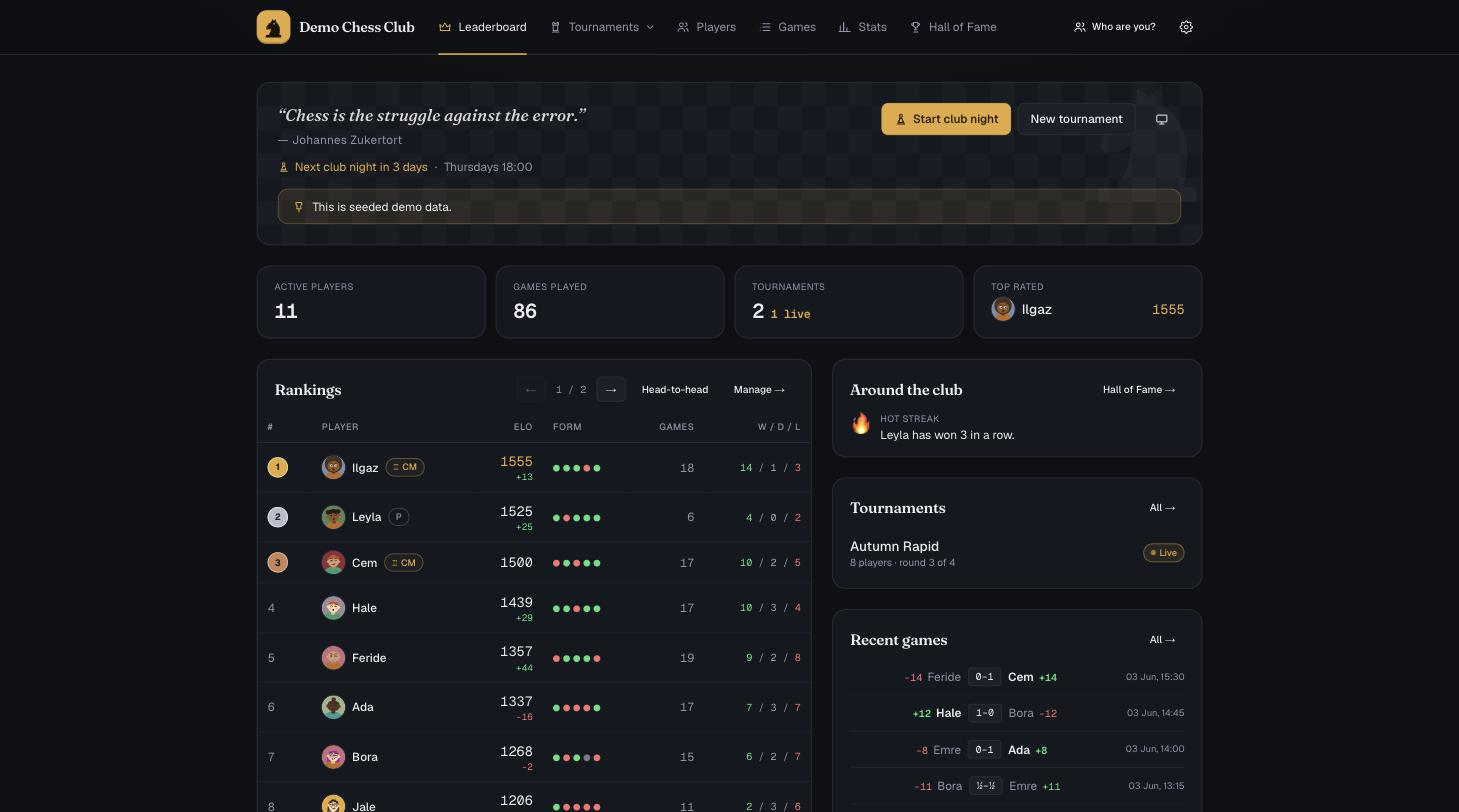
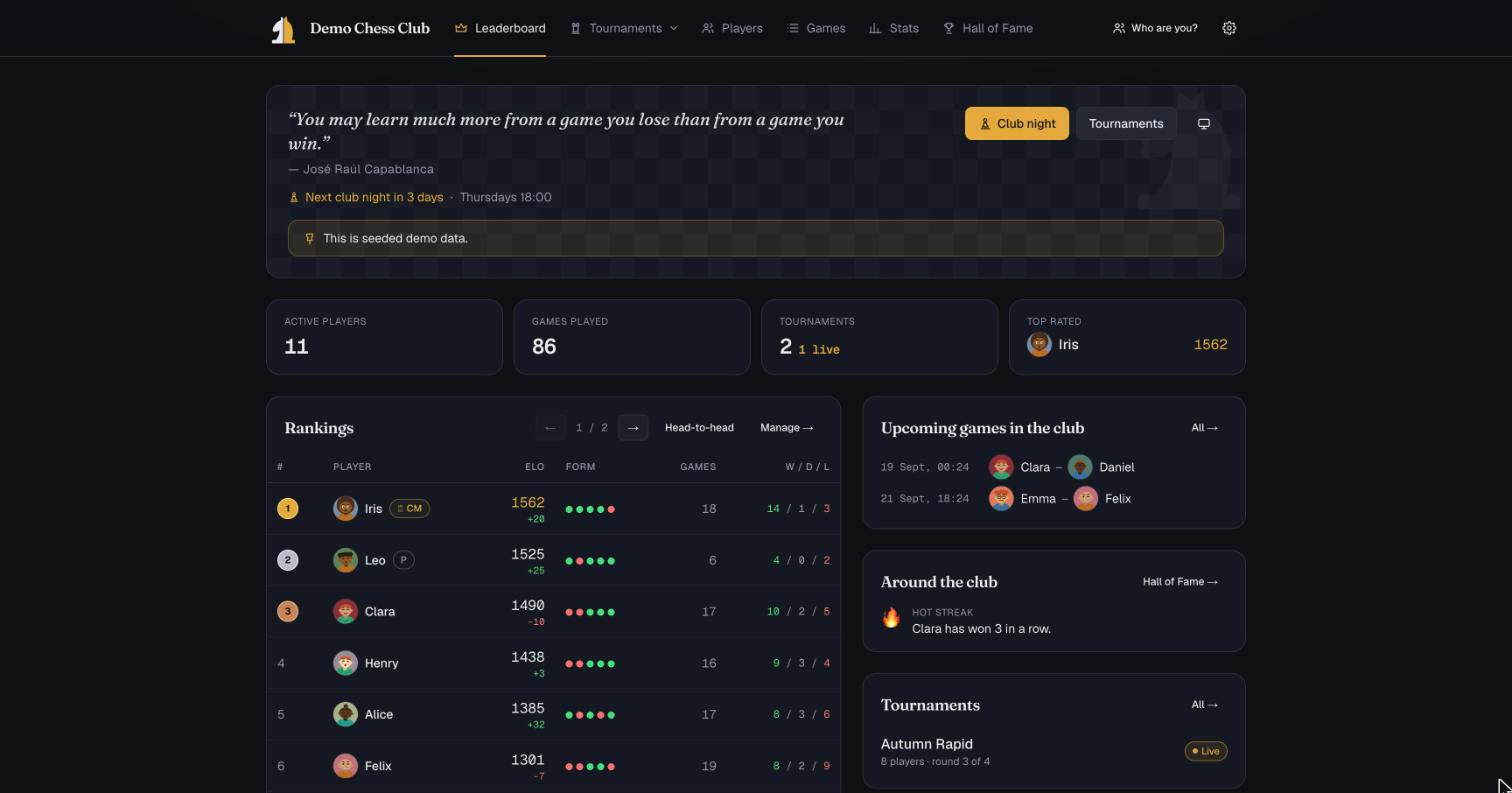
feat: update KnightMark component for improved styling and accessibility; enhance various UI elements across pages

diff --git a/src/components/icons.tsx b/src/components/icons.tsx
@@ -1,15 +1,26 @@
 import type { SVGProps } from "react";
 
+const KNIGHT = "M17 94h66v-7c0-2-1.5-3-3.5-3H74c3.5-14 5-30-3-44-2.5-4.5-6-8-10-10.5l-2-14-7 8-9-6-.5 10c-9 3-16 10-20.5 18.5-2 4-3.5 8-3 11 .5 3 3 4.5 6 4l7-1.5c2.5-.5 4.5-2 6-4 1.5 8-1 16-6 23-1.5 2-2 3.5-2 5.5H20.5c-2 0-3.5 1-3.5 3v7z";
+
 /**
- * The club's mark: a knight's head, drawn as one solid shape so it stays
- * crisp at 16px in the header and at 400px as a watermark.
+ * The club's mark: a knight's head split down the middle, the left half in the text colour and the
+ * right half in the club's amber, with a hairline gap between them (white and black, one game).
+ * It stands on its own, no tile behind it, so it reads as one shape next to other favicons.
+ * Override the halves with `--knight-left` / `--knight-right`; `mono` draws it in one colour
+ * (watermarks, print).
  */
-export function KnightMark({ className = "", ...rest }: SVGProps<SVGSVGElement>) {
+export function KnightMark({ className = "", mono = false, ...rest }: SVGProps<SVGSVGElement> & { mono?: boolean }) {
+  if (mono) {
+    return (
+      <svg viewBox="0 0 100 100" className={className} fill="currentColor" aria-hidden {...rest}>
+        <path d={KNIGHT} />
+      </svg>
+    );
+  }
   return (
-    <svg viewBox="0 0 100 100" className={className} fill="currentColor" aria-hidden {...rest}>
-      <path d="M17 94h66v-7c0-2-1.5-3-3.5-3H74c3.5-14 5-30-3-44-2.5-4.5-6-8-10-10.5l-2-14-7 8-9-6-.5 10c-9 3-16 10-20.5 18.5-2 4-3.5 8-3 11 .5 3 3 4.5 6 4l7-1.5c2.5-.5 4.5-2 6-4 1.5 8-1 16-6 23-1.5 2-2 3.5-2 5.5H20.5c-2 0-3.5 1-3.5 3v7z" />
-      <circle cx="52" cy="36" r="3.2" fill="var(--knight-eye, var(--accent))" />
-      <circle cx="23.5" cy="52.5" r="1.7" fill="var(--knight-eye, var(--accent))" />
+    <svg viewBox="0 0 100 100" className={className} aria-hidden {...rest}>
+      <path d={KNIGHT} fill="var(--knight-left, currentColor)" style={{ clipPath: "inset(0 51.5% 0 0)" }} />
+      <path d={KNIGHT} fill="var(--knight-right, var(--accent))" style={{ clipPath: "inset(0 0 0 51.5%)" }} />
     </svg>
   );
 }

diff --git a/src/components/Nav.tsx b/src/components/Nav.tsx
@@ -116,9 +116,7 @@ export function Nav({ admin, clubName, me, waiting = 0 }: { admin: boolean; club
     <header className="border-b border-line bg-bg/85 backdrop-blur sticky top-0 z-20 no-print">
       <div className="mx-auto max-w-6xl px-4 h-16 flex items-center gap-4">
         <Link href="/" className="flex items-center gap-2.5 shrink-0 group">
-          <span className="grid h-10 w-10 place-items-center rounded-xl bg-accent text-accent-fg shadow-[inset_0_-2px_0_rgba(0,0,0,.18)] group-hover:brightness-110 transition">
-            <KnightMark className="h-7 w-7" />
-          </span>
+          <KnightMark className="h-10 w-10 text-fg transition group-hover:brightness-110" />
           <span className="block leading-tight">
             <span className="block font-display font-semibold text-[17px] tracking-tight max-w-36 sm:max-w-44 truncate">{clubName}</span>
             {!/chess\s*club|schach/i.test(clubName) && <span className="block text-[10px] uppercase tracking-[0.18em] text-muted">{t.nav.chessClub}</span>}

diff --git a/src/app/tv/page.tsx b/src/app/tv/page.tsx
@@ -33,9 +33,7 @@ export default async function TvPage() {
       <AutoRefresh seconds={5} />
       <header className="flex items-center justify-between gap-6 board-texture rounded-3xl border border-line px-8 py-6">
         <div className="flex items-center gap-5 min-w-0">
-          <span className="grid h-16 w-16 place-items-center rounded-2xl bg-accent text-accent-fg shrink-0">
-            <KnightMark className="h-11 w-11" />
-          </span>
+          <KnightMark className="h-16 w-16 shrink-0 text-fg" />
           <div className="min-w-0">
             <div className="text-xs uppercase tracking-[0.2em] text-muted">{season ? season.name : t.nav.chessClub}</div>
             <h1 className="font-display text-4xl font-semibold tracking-tight leading-none truncate">{club.name}</h1>

diff --git a/src/app/join/page.tsx b/src/app/join/page.tsx
@@ -22,9 +22,7 @@ export default async function JoinPage({ searchParams }: { searchParams: Promise
   return (
     <main className="min-h-full flex-1 flex items-center justify-center p-6 board-texture">
       <div className="w-full max-w-sm flex flex-col items-center text-center gap-6 fade-up">
-        <span className="grid h-20 w-20 place-items-center rounded-2xl bg-accent text-accent-fg shadow-[inset_0_-3px_0_rgba(0,0,0,.18)]">
-          <KnightMark className="h-14 w-14" />
-        </span>
+        <KnightMark className="h-20 w-20 text-fg" />
         <div>
           <div className="text-[11px] uppercase tracking-[0.18em] text-muted">{t.me.join.membersOnly}</div>
           <h1 className="font-display text-4xl font-semibold tracking-tight mt-1">{club.name}</h1>

diff --git a/src/app/(site)/page.tsx b/src/app/(site)/page.tsx
@@ -47,7 +47,7 @@ export default async function Home({ searchParams }: PageProps<"/">) {
   return (
     <>
       <section className="card board-texture mb-6 relative overflow-hidden p-5 md:p-6">
-        <KnightMark className="pointer-events-none select-none absolute -right-6 -top-6 h-44 w-44 text-fg opacity-[0.04]" style={{ ["--knight-eye" as string]: "transparent" }} />
+        <KnightMark mono className="pointer-events-none select-none absolute -right-6 -top-6 h-44 w-44 text-fg opacity-[0.04]" />
         <div className="relative flex flex-wrap items-start justify-between gap-x-8 gap-y-4">
           <div className="min-w-0 flex-1 flex flex-col gap-3">
             <h1 className="sr-only">{club.name}</h1>

diff --git a/CLAUDE.md b/CLAUDE.md
@@ -9,7 +9,7 @@ Next.js 16 app, Bun for packages, Tailwind v4. The user deploys it to Vercel fro
 - Read models: `src/lib/queries.ts` (standings + tiebreaks, crosstable, h2h, streaks, club stats, sessions, knockout placement).
 - Mutations: server actions in `src/lib/actions.ts`; destructive ones call `requireAdmin()` (`src/lib/auth.ts`). Results, colour swaps and friendly games are guarded by `mayEditGame()`: the admin may touch any game, a claimed device (`cc_me`) only boards it plays on; the UIs show read-only chips otherwise. Every exported action is wrapped in `run()` (form actions) or `attempt()` (called from client components). Throw `UserError` (`src/lib/errors.ts`) for anything the user should read: `run()` redirects back with `?flash=` which `Flash` shows as a toast; `attempt()` returns `{ error }`. Plain `Error` means a bug and hits `error.tsx`.
 - Access: `src/lib/tokens.ts` signs stateless cookies for two roles (admin password → `cc_admin`, bound to the password hash via `isAdminToken()` so a new password signs every admin device out; club-wide member code → `cc_member`, bound to the code's hash so a new code signs everyone out). `rotateSessionSecret()` in auth.ts (action `signOutEverywhere`) invalidates every cookie at once. `ADMIN_RESET_TOKEN` env enables the forgotten-password form on `/admin?recover=1` (`resetAdminPassword`, admin or owner). A second, optional **owner password** (`settings.ownerPasswordHash`, `setOwnerPassword`) gates the destructive admin tools: `requireOwner(fdOrString)` in actions.ts is used by `resetData`, `importDatabase`, `restoreBackup`, `removeBackup`, `mergePlayers`, `setMemberCode`/`clearMemberCode`, `changePassword`, `signOutEverywhere`; while none is set, admin suffices. `ConfirmButton` takes `password=<placeholder>` to collect it and passes it as the action's last argument; forms send it as the `owner` field. `log()` appends `[owner]` when the actor passed that check. Only the current owner password (or the recovery token) can change it, never the admin password. `src/proxy.ts` redirects to `/join` when `settings.memberCodeHash` is set and no valid cookie is present; `/join`, `/admin` and `/api/*` are exempt. No code set = open club (local default). A third cookie `cc_me` (role "self", `playerId`) is the device identity, issued by `claimWithPin` only after the player's 4-digit PIN (`Player.pinHash`, scrypt) is set or verified; brute-force brakes for PIN, admin password and member code share `src/lib/lockout.ts` (5 fails → 10 min; PIN counters on the player via `src/lib/pin.ts`, `settings.adminLock` / `settings.memberLock` for the other two, checked in `login` / `joinClub`); `currentPlayerId()` in auth.ts reads it. Organising actions (`createTournament`, `generateNextRound`, `setParticipants`, `setTournamentStatus`, `toggleWithdraw`, `updateRoundPairings`, all `session*` except delete) call `requireMember()` (admin or claimed device); pages compute `member = admin || !!me` (or `isMemberDevice()` in auth.ts) and swap their controls for `GuestNotice` (`src/components/GuestNotice.tsx`) for guests. Self-only actions (`setAvatar`, `changeOwnPin`) accept the claimed player or the admin; `resetPin`, `updatePlayer`, `deletePlayer`, `addPlayer` are admin-only; `registerSelf` lets an unclaimed device add exactly one player (itself) with a PIN. `/me` is the welcome/picker/PIN screen; `proxy.ts` sends devices without `cc_me`, `cc_skip` or `cc_admin` there once (skip cookie lasts 30 days).
-- Challenges: `db.challenges` (`Challenge` in types.ts: from/to, `at`, place, time control, note, status pending/accepted/declined/played/cancelled/expired, `proposedBy`, `gameId`). Pure helpers in `src/lib/challenges.ts` (`effectiveStatus` treats open ones a day past `at` as expired, `expireChallenges` writes that inside mutate, `pendingFor`/`sentBy`/`upcoming`/`history`, `challengeCheck`, `combineDateTime`, `toIcs`); actions `createChallenge`, `answerChallenge`, `proposeChallengeTime`, `cancelChallenge`, `recordChallengeResult` (creates the friendly game via `makeGame`) are member-only via `challengeActor()`, the admin may act for anyone. Colours are drawn at acceptance (`drawColors`, stored in `whiteId`; a new time proposal clears them). UI: `/challenges` page, `ChallengeCard`/`ChallengeForm` in `src/components/ChallengeCard.tsx`, home card, profile card, header badge (`waiting` prop on `Nav`), `/api/challenge/[id]` serves the `.ics` to the two players.
+- Challenges: `db.challenges` (`Challenge` in types.ts: from/to, `at`, place, time control, note, status pending/accepted/declined/played/cancelled/expired, `proposedBy`, `gameId`). Pure helpers in `src/lib/challenges.ts` (`effectiveStatus` treats open ones a day past `at` as expired, `expireChallenges` writes that inside mutate, `pendingFor`/`sentBy`/`upcoming`/`history`, `challengeCheck`, `combineDateTime`, `toIcs`, `googleCalendarUrl`, `estimateDurationMinutes` for the calendar slot: 2 × (base + 40 × increment) rounded to quarter hours, 30-minute floor and default); actions `createChallenge`, `answerChallenge`, `proposeChallengeTime`, `cancelChallenge`, `recordChallengeResult` (creates the friendly game via `makeGame`) are member-only via `challengeActor()`, the admin may act for anyone. Colours are drawn at acceptance (`drawColors`, stored in `whiteId`; a new time proposal clears them). UI: `/challenges` page, `ChallengeCard`/`ChallengeForm` in `src/components/ChallengeCard.tsx`, home card, profile card, header badge (`waiting` prop on `Nav`), `/api/challenge/[id]` serves the `.ics` to the two players.
 - Activity log: call `log(db, text)` inside the `mutate()` that persists a change; `db.activity` keeps the last 500 entries, shown on the Admin page (searchable via `?q=&who=&all=1`).
 - Data health: `checkHealth(db, msgs?, raw?)` in `src/lib/health.ts` (read-only consistency report: dangling refs, misplaced games, knockout winners, rating drift) feeds both the Admin "Data health" card and `.claude/skills/inspect-db/inspect.ts`. Security headers (CSP with frame-ancestors/form-action/base-uri, nosniff, referrer, permissions, `X-Robots-Tag: noindex`) live in `next.config.ts`.
 - Admin bulk tools: `src/lib/reset.ts` (pure `applyReset(db, scope)` for the Danger zone; action `resetData` snapshots via `replaceDb(next, "before-reset-<scope>")`), `src/lib/merge.ts` (`mergeCheck`/`mergePlayers` rewrite every player reference; refused when the two ever met), snapshots by hand via `takeSnapshot`/`deleteBackup` in db.ts (`BACKUP_NAME_RE`, `snapshotLabel`), `/api/backup?snapshot=<file>` downloads one. `Qr` (`src/components/Qr.tsx`, `qrcode` package, server-only) + `requestOrigin()` (`src/lib/request-url.ts`) render the phone QR on Admin.
@@ -17,7 +17,7 @@ Next.js 16 app, Bun for packages, Tailwind v4. The user deploys it to Vercel fro
 - Avatars: `Player.avatar` is a seed string; `face(seed)` in `src/lib/avatar.ts` derives a flat cartoon character (skin, hair style and colour, head shape, eyes, mouth, brows, accessory, shirt, ground colour) and `FaceSvg` draws it as SVG. `migrate()` seeds missing ones with the player id, `addPlayer` uses a random seed, the edit form offers `avatarChoices()`. `Avatar` in `ui.tsx` looks the seed up via a per-request `cache()` of `readDb()`, so `ui.tsx` must stay server-only.
 - Tables: `.table` cells are `px-3`; columns beyond the essentials hide below `lg`/`xl` (`hidden lg:table-cell`) so no table needs horizontal scroll down to 1024 px; the tournament standings table uses `[&_th]:px-2 [&_td]:px-2`. Alternate build folders must stay in `.gitignore` (`/.next-*/`), otherwise Tailwind scans them and breaks the CSS build.
 - Layout: two-column pages use `grid gap-6 lg:grid-cols-[3fr_2fr]` with default stretch; a column that holds several cards is a `div.col-stack` (flex column, last card grows) so both columns end on the same line. `Section` is a flex column whose body grows.
-- Visual language: display serif `font-display` (Fraunces) for h1/card titles, Geist for body; `KnightMark` logo and `Icon` line icons in `src/components/icons.tsx` (no unicode chess glyphs or emoji for UI chrome); `.board-texture` for the hero; medal `Rank` circles; `QuoteOfTheDay` (`src/lib/quotes.ts`, rotates by calendar day) instead of a motto. Do not put `<title>` inside SVGs (hydration mismatch); use `aria-label`.
+- Visual language: display serif `font-display` (Fraunces) for h1/card titles, Geist for body; `KnightMark` logo (a knight split down the middle: left half `currentColor`, right half `--accent`, overridable via `--knight-left`/`--knight-right`, `mono` for one colour; drawn standalone without a tile so it reads as one shape next to other favicons; `public/icons/icon.svg` is the same mark with a `prefers-color-scheme` swap, the PNG app icons put it on the dark `#0e1014` ground and were rendered with `qlmanage -t -s 512`) and `Icon` line icons in `src/components/icons.tsx` (no unicode chess glyphs or emoji for UI chrome); `.board-texture` for the hero; medal `Rank` circles; `QuoteOfTheDay` (`src/lib/quotes.ts`, rotates by calendar day) instead of a motto. Do not put `<title>` inside SVGs (hydration mismatch); use `aria-label`.
 - Routing: `src/app/layout.tsx` is html/body only (plus PWA metadata; `src/app/manifest.ts` serves the manifest, icons in `public/icons/`); `src/app/(site)/layout.tsx` adds Nav, centered `main` and footer. `src/app/tv/page.tsx` is the projector view outside `(site)`: no nav, big type, `AutoRefresh` every 5 s, exempt from the `/me` identity prompt in `proxy.ts`. Club night and running tournament pages mount `AutoRefresh` (10 s, `router.refresh()`), and highlight the claimed device's own board via `currentPlayerId()`. Admin sign-in is reachable only by typing `/admin`; the header shows the Admin badge only while signed in.
 - Languages: English and German only, no hard-coded UI strings. Dictionary in `src/lib/i18n/` (`index.ts` builds `Dict` from `messages/<namespace>.ts`, each exporting `{ en, de }` with `de: typeof en`, so a missing German key fails `tsc`; values are plain strings, `{name}` placeholders via `fmt()`, plurals `{ one, other }` via `plural()`). Server code: `const { t, lang } = await getT()` from `src/lib/lang.ts` (per-request cache; reads the `cc_lang` cookie, else `settings.language`, else en). Client components: `useT()` from `I18nProvider` (mounted in the root layout). `PrefsMenu` (gear in the header) holds both per-device preferences: language (cookie via `setLanguage`) and theme (localStorage, `themeInitScript` in the root layout). Dates: `formatDate/formatDateTime/formatMonth(x, lang)`. Lib code that produces display text (`highlights`, `knockoutRoundName`, `TIEBREAK_PRESETS`, `knockoutPlacement`, error messages) takes a messages object with an English default so tests stay plain. Activity-log texts stay English (stored data). When a file uses `t` for a tournament, destructure `const { t: msg } = await getT()`.
 - Pages are server components with `force-dynamic`; interactive bits (`ResultButtons`, `ConfirmButton`, `Toast`, `Flash`, `PrefsMenu`, `SearchBox`, `PairingReveal`) are client components. Round-generating actions redirect with `?reveal=<round>`; `PairingReveal` plays a one-time board draw ("draw" for random pairings, "reveal" for computed ones), strips the query on mount and renders the real boards when done.
